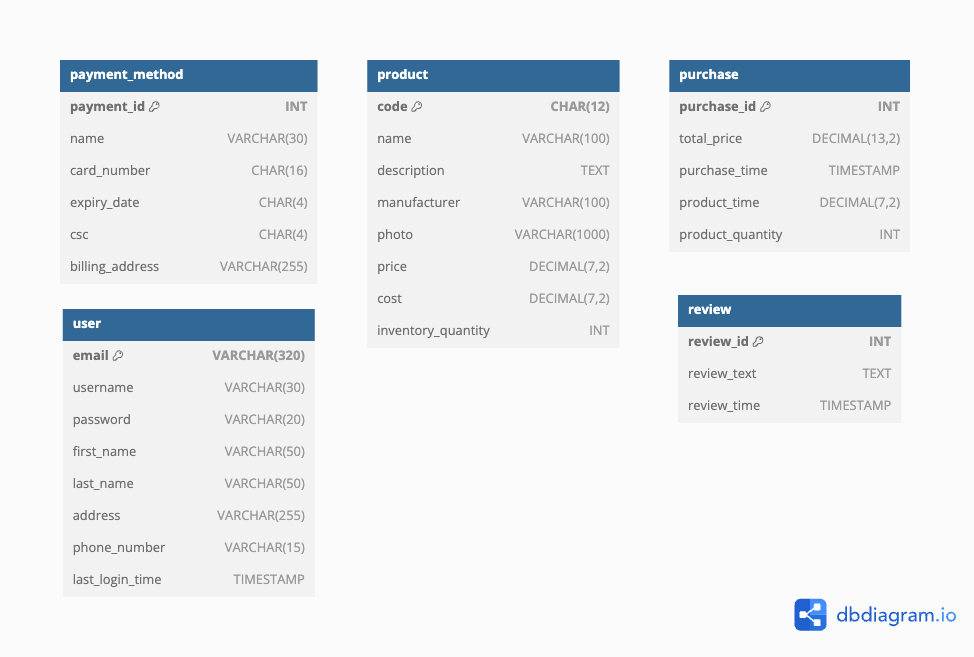
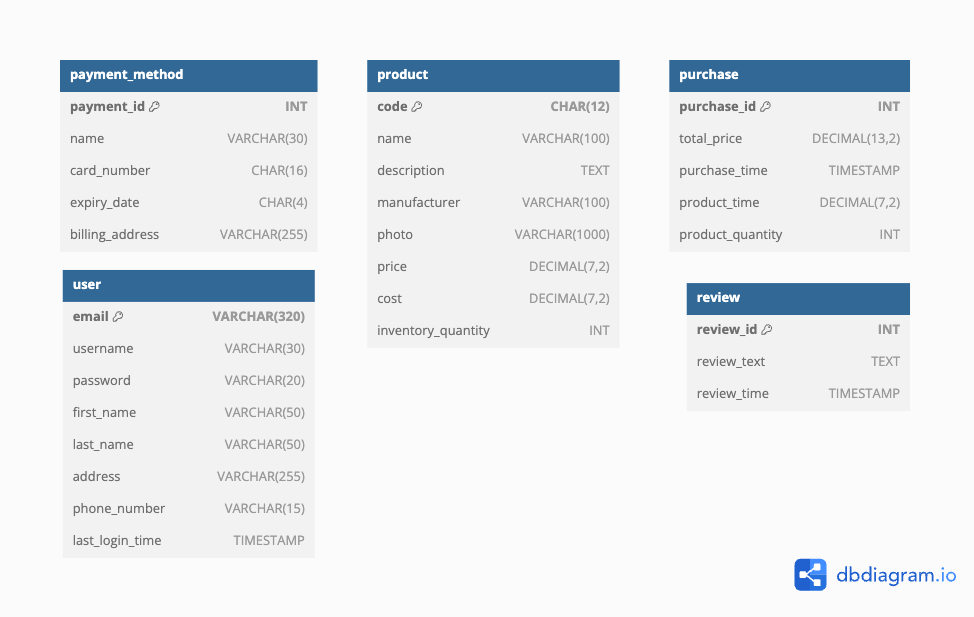
dbdiagram for chapter 7 and updates to first six chapters

diff --git a/chapter_07/README.md b/chapter_07/README.md
@@ -1,0 +1,104 @@
+# Relationships
+
+Practioners use tools such as dbdiagram.io, LucidChart, or MySQL Workbench to create and edit E-R diagrams.
+
+The corresponding chapter in this book developed the entities and their attributes for the database of The Sci-fi Collective. You can find the developed entities and their relationships, as well as how to load (or check) them using corresponding tools.
+
+- [View or edit the E-R diagram via dbdiagram](#view-or-edit-the-e-r-diagram-via-dbdiagram)
+<!-- - [View or edit the E-R diagram via MySQL Workbench](#view-or-edit-the-e-r-diagram-via-mysql-workbench) -->
+
+The final state of entities as described in Chapter 7 is as follows:
+
+<img src="./images/er-diagram.png" alt="e-r-diagram" style="width:'70%';">
+
+## View or edit the E-R diagram via dbdiagram
+
+[dbdiagram.io](https://dbdiagram.io) is a free online tool for drawing E-R Diagrams by writing code. You can also generate `SQL CREATE TABLE` statements given a diagram using dbdiagram.io. dbdiagram.io supports three RDBMS: MySQL, PostgreSQL, and SQL Server.
+
+What we achieved in this chapter is not the end of the E-R diagram that we aim to develop. As a result, we only provide a MySQL script (`dbdiagram.sql`) that correspond to the final state of entities and relationships of this chapter. 
+
+<img src="./images/dbdiagram.png" alt="dbdiagram" style="width:'50%';">
+
+When you import the provided script into dbdiagram.io, you will be able to view or edit the corresponding E-R diagram. You can also generate a new SQL script for PostgreSQL or SQL server from the diagram. To import the script, please follow the steps below:
+
+1. Visit the [dbdiagram.io](https://dbdiagram.io/home) website, and log into your account.
+2. Click on the "Import Database" button in the top navigation bar.
+3. You can either copy and paste the content of the `dbdiagram.sql` file into the text area or click on the "Upload .sql" button to upload the `dbdiagram.sql` file.
+4. When you are done, click on the "Submit" button.
+
+You can refer to [the manual of diagram.io](https://dbdiagram.io/docs/) if you have any questions about diagram.io.
+<!-- 
+## View or edit the E-R diagram via MySQL Workbench
+
+MySQL Workbench is an administration tool for MySQL as much as an E-R diagramming software. Different from dbdiagram.io, MySQL Workbench is a desktop application that you need to install on your computer. Additionally, MySQL only supports MySQL as the RDBMS. However, you can use use MySQL Workbench to generate a MySQL script first, and then convert it to scripts for other RSBMS using SQL converter tools such as [SQLines](https://sqlines.com/online).
+
+There are extensive tutorials for how to use MySQL Workbench for Database Design, you can use this part of the manual as a reference: [Database Design and Modeling](https://dev.mysql.com/doc/workbench/en/wb-data-modeling.html). MySQL Workbench is available for Windows, Linux, and Mac. 
+
+### Windows
+
+1. Visit the [MySQL Workbench Download Page](https://dev.mysql.com/downloads/workbench/).
+2. Download the `mysql-workbench-community-8.0.33-winx64.msi` file from "Other Downloads" section. The Download button is to the right. Make sure to download this file since if you download the MySQL Installer it will also install MySQL on your system (which we assume you already have installed from previous chapters and do not need to on this one).
+3. Follow the installation instructions from the installer.
+4. Once installed, double-click on the file or use File -> Open Model ... from within MySQL Workbench.
+5. The file (`workbench.mwb`) is a MySQL Workbench Document that allows you to edit entity relationship diagrams and generate SQL CREATE TABLE statements based on these diagrams. The current file contains all entities as described in their final state in Chapter 7.
+6. Once you see the entities you can freely double-click and evaluate them as well as make any necessary changes.
+
+### Linux
+
+1. Visit the [MySQL Workbench Download Page](https://dev.mysql.com/downloads/workbench/).
+2. Download the `mysql-workbench-community-8.0.33-1.el8.x86_64.rpm` file from "Other Downloads" section. The Download button is to the right. Make sure to download this file since if you download the MySQL Installer it will also install MySQL on your system (which we assume you already have installed from previous chapters and do not need to on this one).
+3. Follow the installation instructions from the installer.
+4. Once installed, double-click on the file or use File -> Open Model ... from within MySQL Workbench.
+5. The file (`workbench.mwb`) is a MySQL Workbench Document that allows you to edit entity relationship diagrams and generate SQL CREATE TABLE statements based on these diagrams. The current file contains all entities as described in their final state in Chapter 7.
+6. Once you see the entities you can freely double-click and evaluate them as well as make any necessary changes.
+
+### Mac
+
+1. Visit the [MySQL Workbench Download Page](https://dev.mysql.com/downloads/workbench/).
+2. Download the `mysql-workbench-community-8.0.33-macos-x86_64.dmg` file from "Other Downloads" section. The Download button is to the right. Make sure to download this file since if you download the MySQL Installer it will also install MySQL on your system (which we assume you already have installed from previous chapters).
+3. Follow the installation instructions from the installer.
+4. Once installed, double-click on the file or use File -> Open Model ... from within MySQL Workbench.
+5. The file (`workbench.mwb`) is a MySQL Workbench Document that allows you to edit entity relationship diagrams and generate SQL CREATE TABLE statements based on these diagrams. The current file contains all entities as described in their final state in Chapter 7.
+6. Once you see the entities you can freely double-click and evaluate them as well as make any necessary changes.
+ -->
+## Modifications to attributes for different RDBMS
+
+You will need to make some modifications to the attributes for different RDBMS. Considering that this chapter is not the end of the E-R diagram that we are still developing, we won't provide different versions of the E-R diagram tailored to different RDBMS. Instead, we will only describe the necessary modifications for SQL Server, SQLite and Oracle below for your reference.
+
+### MySQL, MariaDB, and PostgreSQL
+
+The entities and attributes depicted in the E-R diagram don't require any modifications for MySQL, MariaDB, and PostgreSQL.
+
+### SQL Server
+
+The following changes need to be made for SQL Server:
+
+**`TIMESTAMP` to `DATETIMEOFFSET`**:  SQL Server uses DATETIMEOFFSET instead of TIMESTAMP. DATETIMEOFFSET stores the date, time, and offset from UTC. DATETIMEOFFSET is a SQL Server-specific data type that is not part of the ANSI SQL standard. DATETIMEOFFSET is used when you need to store the time zone offset of a particular date and time value.
+
+**`VARCHAR` to `NVARCHAR`**: It is recommended to use `NVARCHAR` instead of `VARCHAR` for SQL Server. `VARCHAR` is used for non-Unicode character data. It stores ASCII characters and can represent a limited set of characters (specifically those in the code page of your server's collation setting). `NVARCHAR` is used for Unicode character data -- It can store characters from multiple languages and alphabets and uses two bytes per character.If your application needs to support multiple languages or special characters that are not represented in the default character set, then you should use `NVARCHAR`.
+
+**`TEXT` to `NVARCHAR(MAX)`**: `TEXT` is a deprecated data type in SQL Server. It is recommended to use `NVARCHAR(MAX)` instead of `TEXT`. `NVARCHAR(MAX)` is used for Unicode character data of variable length. `NVARCHAR(MAX)` can store up to 2GB of data. `NVARCHAR(MAX)` is a SQL Server-specific data type that is not part of the ANSI SQL standard. `NVARCHAR(MAX)` is used when you need to store large amounts of Unicode character data (more than 4000 characters).
+
+**`AUTO_INCREMENT` to `IDENTITY`**: `IDENTITY` the name used for `AUTO_INCREMENT` in SQL Server. The effect is the same.
+
+**`CURRENT_TIMESTAMP` to `GETDATE()`**: The function name is different but the use is exactly the same.
+
+**`VISIBLE` is  not necessary**: It is the default for SQL server so it is ommitted from the create table statement.
+
+### SQLite
+
+The following changes need to be made for SQLite:
+
+**`TIMESTAMP` to `TEXT`**: SQLite doesn't support the `TIMESTAMP` data type. It is recommended to use `TEXT` instead of `TIMESTAMP` for SQLite.
+
+**`CHAR` and `VARCHAR` to `TEXT`**: `CHAR` and `VARCHAR` are the same as `TEXT` in SQLite, and all of which have no length limit in SQLite.
+
+**`DECIMAL` to `INT` or `TEXT`**: SQLite doesn't support `DECIMAL` data type. `REAL` is typically used instead of `DECIMAL` in SQLite when precision doesn't matter. When precision matters, `INT` or `TEXT` are typically used in practice for decimal numbers.
+
+**Character encodings not supported**: SQLite uses UTF-8 by default.
+
+**`AUTO_INCREMENT` to `INTEGER PRIMARY KEY`**: As long as a column is a primary key and integer the auto-incrementing effect is automatic.
+
+**`VISIBLE` is  not necessary**: It is the default for SQLite so it is ommitted from the create table statement.
+
+**`CURRENT_TIMESTAMP` to `datetime('now')`**: Use is exactly the same just the syntax is different.
